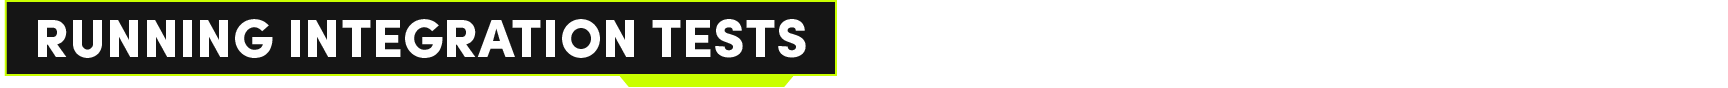
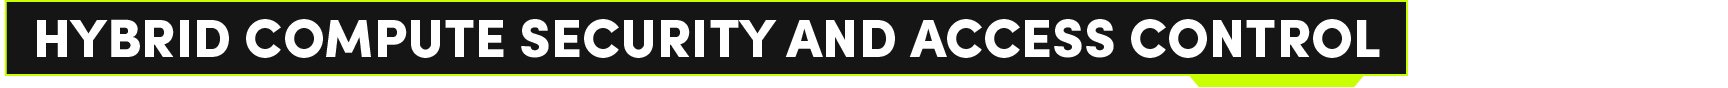
GITBOOK-209: No subject

diff --git a/boba_documentation/developer/hybrid_compute.md b/boba_documentation/developer/hybrid_compute.md
@@ -2,76 +2,90 @@
 description: How to build with Hybrid Compute
 ---
 
+# Welcome to Hybrid Compute
+
 Hybrid Compute is a system for interacting with the outside world from within solidity smart contracts. Ethereum is a computer with multiple strong constraints on its internal architecture and operations, all required for decentralization. As such, things that most developers take for granted - low cost data storage, audio and image processing, advanced math, millisecond response times, random number generation, and the ability to talk to any other computer - can be difficult or even impossible to run on the Ethereum "CPU". Of course, the benefits of decentralization far outweigh those limitations, and therefore, tools are desirable to add missing functionality to the Ethereum ecosystem. Hybrid Compute is one such tool.
 
 Hybrid Compute is a **pipe** between (**1**) Boba's Geth (aka sequencer), which takes transactions, advances the state, and forms blocks, and (**2**) your server. To use this pipe, all you need is a smart contract on Boba that makes Hybrid Compute calls and an external server that accepts these calls and returns data in a format that can be understood by the EVM. This is not hard to do and we provide many examples which will allow you to quickly build a working Hybrid Compute system.
 
-## Hybrid Compute Basic Parts
+
+
+<figure><img src="../../.gitbook/assets/Artboard 1.png" alt=""><figcaption></figcaption></figure>
 
 A typical Hybrid Compute system for gaming or Web3 social networking<>blockchain interoperability has four parts:
 
 1. A contract that uses Hybrid Compute, such as by calling `bytes memory encResponse = myHelper.TuringTx(serverURL, encRequest);`
-
 2. A second contract, the `TuringHelper`, which serves as your standardized door to Turing.
-
 3. Some BOBA. Each Hybrid Compute call costs 0.01 BOBA, equivalent to about 1 cent at the moment. This fee covers the cost of writing all input calldata and responses from your servers to Ethereum Mainnet.
-
 4. A server which accepts POST requests from Boba's Geth and returns data to it in the right format.
 
-## Hybrid Compute Functions and Feature Set
+
+
+<figure><img src="../../.gitbook/assets/Artboard 2 (2).png" alt=""><figcaption></figcaption></figure>
 
 Hybrid Compute is a general purpose pipe between computers and this pipe does not have a native feature set (e.g. storage, cron jobs, cryptographic operations, gaming engines, blockchain history lookups, ...). Rather, _it's up to you_ to deploy servers or endpoints to perform those functions and then expose the right functionality/data to external callers. For many situations, serverless endpoints such as AWS Lambda or Google Cloud Services allow you to build complex logic in just a few lines of code, so if you have not done that before, it's surprisingly easy and we provide many examples for you to use and copy.
 
-## **Hybrid Compute is not an Oracle**
+
+
+<figure><img src="../../.gitbook/assets/Artboard 3 (3).png" alt=""><figcaption></figcaption></figure>
 
 Hybrid Compute is general-purpose pipe between computers and not an Oracle. Decentralized Oracles were invented to solve a very specific problem, which is _decentralized trustless approximation of the truth_ (e.g. temperature in NYC, the price of BTC/USD, ...) for later consumption on-chain (e.g. by a DEX or lending protocol). A pipe between computers such as Hybrid Compute has no direct bearing on questions of data authenticity, timeliness, and trust, but rather, those must be tackled by the smart contract deployer and data provider(s) in whatever way is most suitable to their specific use case, industry, and application. To reiterate, Hybrid Compute is a pipe, not an Oracle.
 
-## Data Push vs. Just-in-time Data Pull
+
+
+<figure><img src="../../.gitbook/assets/Artboard 4 (3).png" alt=""><figcaption></figcaption></figure>
 
 On chain Oracles typically operate in a **push** manner, meaning that they update data on a fixed schedule (e.g. every 15 seconds), even when those data are not being used. This `push` update schedule allows calling smart contracts to have confidence that the data they pull are current, but a fixed push update cycle comes at high gas expense that does not decrease in time of low data utilization.
 
 A system like Hybrid Compute is typically configured in the opposite manner, as a **pull** system, where nothing happens until a smart contract needs data or compute. In that case, the external API services the Hybrid Compute call `just in time` during the EVM execution flow. This means that systems that use Hybrid Compute have zero baseline gas consumption and provide compute or data only when needed.
 
-## Hybrid Compute is Atomic
+
+
+<figure><img src="../../.gitbook/assets/Artboard 5.png" alt=""><figcaption></figcaption></figure>
 
 Hybrid Compute is invoked when needed during the normal EVM execution flow, and therefore, transactions are atomic. Notably, computations later in the EVM execution flow can operate on responses from your off-chain servers all in one transaction.
 
-## Transparency and Verification
+
+
+<figure><img src="../../.gitbook/assets/Artboard 6 (2).png" alt=""><figcaption></figcaption></figure>
 
 As noted, Hybrid Compute is not an Oracle. However, Hybrid Compute writes all initial calldata and server responses to Ethereum Mainnet, and therefore, external parties can see those inputs and outputs. In theory, this many allow third parties to detect fraud or even challenge Hybrid Compute calls, but such functionality remains to be developed.
 
-## Hybrid Compute Security and Access Control
+
+
+<figure><img src="../../.gitbook/assets/Artboard 7 (1).png" alt=""><figcaption></figcaption></figure>
 
 Since developers (i.e. **you**) control all of their keys and Hybrid Compute is just a pipe, there are no special security considerations when using Hybrid Compute. Notably - _we do not provide data or compute endpoints for you to query_ - you have to build, secure, and run those.
 
 Hybrid Compute has two security/control features:
 
 * First, when you set up Hybrid Compute, you register the address of your `TuringHelper` with the `TuringBilling` contract. This prevents unauthorized contracts from using your on chain infrastructure.
-
 * Second, the Boba Geth provides the address of the calling contract to your servers and endpoints. This allows you to limit use of your public data- or compute- endpoints to contracts that you have specifically approved.
 
 The first mechanism prevents unauthorized use of your on-chain resources and the second one prevents unauthorized use of off-chain resources.
 
-## Let's get started!
+
+
+<figure><img src="../../.gitbook/assets/Artboard 8.png" alt=""><figcaption></figcaption></figure>
 
 Here are five fully worked out examples for you to build on:
 
 * Use Hybrid Compute to build a [CAPTCHA-gated token faucet](../hc/hc-captcha-faucet.md)
 * Use Hybrid Compute to [mint NFTs with random attributives](../hc/monsters.md)
-* Do all [stableswap quadratic math off-chain, just in time](https://github.com/bobanetwork/boba/tree/develop/boba_examples/turing-lending)
-* Query [centralized off-chain price feeds](./price-feeds.md#3-bobalink)
+* Do all [stableswap quadratic math off-chain, just in time](https://github.com/bobanetwork/boba/tree/develop/boba\_examples/turing-lending)
+* Query [centralized off-chain price feeds](price-feeds.md#3-bobalink)
 * Connect [on-chain events with commercial KYC providers](../hc/kyc.md)
 
 There is more information on setting up your own servers and compute endpoints here:
 
-* [Hybrid Compute API Endpoints](../hc/AWS_lambda_setup.md)
+* [Hybrid Compute API Endpoints](../hc/AWS\_lambda\_setup.md)
 
-Separately, there is a new system to help you deploy all the right contracts and set up a working test system at [[Mainnet: turing.boba.network]](https://turing.boba.network).
+Separately, there is a new system to help you deploy all the right contracts and set up a working test system at [\[Mainnet: turing.boba.network\]](https://turing.boba.network).
 
-Have fun using hybrid_compute and contact us right away if you run into any problems!
+Have fun using hybrid\_compute and contact us right away if you run into any problems!
 
 [Telegram for Developers](https://t.me/bobadev)\
-[Project Telegram](https://t.me/bobanetwork )\
+[Project Telegram](https://t.me/bobanetwork)\
 [Discord](https://discord.com/invite/YFweUKCb8a)
 
 There is a community-built factory contract for Hybrid Compute helper. You can deploy, manage, and fund your Hybrid Compute helpers all through a graphical interface.

diff --git a/README.md b/README.md
@@ -25,7 +25,7 @@ User focused documentation is available [on the Boba docs website](http://docs.b
 [Project Telegram](https://t.me/bobanetwork)\
 [Discord](https://discord.com/invite/YFweUKCb8a)
 
-<figure><img src=".gitbook/assets/Artboard 2 (1).png" alt=""><figcaption></figcaption></figure>
+<figure><img src=".gitbook/assets/Artboard 2.png" alt=""><figcaption></figcaption></figure>
 
 **Base Layer (generally similar to Optimistic Ethereum)**
 
@@ -106,13 +106,13 @@ If the command returns with no log output, the sequencer is up. Once the sequenc
 
 When the command returns with `Pass: Found L2 Liquidity Pool contract address`, the entire Boba stack has come up correctly.
 
-<figure><img src=".gitbook/assets/Artboard 5.png" alt=""><figcaption></figcaption></figure>
+<figure><img src=".gitbook/assets/Artboard 5 (1).png" alt=""><figcaption></figcaption></figure>
 
 * _Running out of space on your Docker, or having other having hard to debug issues_? Try running `docker system prune -a --volumes` and then rebuild the images.
 * _To (re)build individual base services_: `docker-compose build -- l2geth`
 * _To (re)build individual Boba ts services_: `docker-compose build -- builder` then `docker-compose build -- dtl`, for example
 
-<figure><img src=".gitbook/assets/Artboard 6.png" alt=""><figcaption></figcaption></figure>
+<figure><img src=".gitbook/assets/Artboard 6 (3).png" alt=""><figcaption></figcaption></figure>
 
 To run unit tests for a specific package:
 
@@ -121,7 +121,7 @@ cd packages/package-to-test
 yarn test
 ```
 
-<figure><img src=".gitbook/assets/Artboard 7 (1).png" alt=""><figcaption></figcaption></figure>
+<figure><img src=".gitbook/assets/Artboard 7.png" alt=""><figcaption></figcaption></figure>
 
 Make sure you are in the `ops` folder and then run
 
@@ -131,7 +131,7 @@ docker-compose run integration_tests
 
 Expect the full test suite with more than 110 tests including load tests to complete in between _30 minutes_ to _two hours_ depending on your computer hardware.
 
-<figure><img src=".gitbook/assets/Artboard 8.png" alt=""><figcaption></figcaption></figure>
+<figure><img src=".gitbook/assets/Artboard 8 (2).png" alt=""><figcaption></figcaption></figure>
 
 By default, the `docker-compose up` command will show logs from all services, and that can be hard to filter through. In order to view the logs from a specific service, you can run:
 

diff --git a/boba_documentation/user/001_how-to-bridge.md b/boba_documentation/user/001_how-to-bridge.md
@@ -6,11 +6,11 @@ description: Setup a wallet, buy & transfer cryptocurrencies, use the different 
 
 [https://gateway.boba.network/](https://gateway.boba.network)
 
-<figure><img src="../../.gitbook/assets/Artboard 1.png" alt=""><figcaption></figcaption></figure>
+<figure><img src="../../.gitbook/assets/Artboard 1 (2).png" alt=""><figcaption></figcaption></figure>
 
 {% embed url="https://drive.google.com/file/d/1ybrKdXxlRNrZOkPO4fLc9bWQ56gRZXfQ/view?usp=sharing" %}
 
-<figure><img src="../../.gitbook/assets/Artboard 2.png" alt=""><figcaption></figcaption></figure>
+<figure><img src="../../.gitbook/assets/Artboard 2 (1).png" alt=""><figcaption></figcaption></figure>
 
 {% embed url="https://drive.google.com/file/d/1TxuP6myVAhtPsEQ0wfmS2HdI0E9rjT3b/view" %}
 
@@ -32,11 +32,11 @@ description: Setup a wallet, buy & transfer cryptocurrencies, use the different 
 
 {% embed url="https://drive.google.com/file/d/1TSyk7T_-TqhXywcbeO41dJZgCsrPIzGq/view?usp=share_link" %}
 
-<figure><img src="../../.gitbook/assets/Artboard 6 (1).png" alt=""><figcaption></figcaption></figure>
+<figure><img src="../../.gitbook/assets/Artboard 6.png" alt=""><figcaption></figcaption></figure>
 
 {% embed url="https://drive.google.com/file/d/1HeHlr9FsBAQwW5YE0ho8g_GygRWWI9jU/view?usp=share_link" %}
 
-<figure><img src="../../.gitbook/assets/Artboard 7.png" alt=""><figcaption></figcaption></figure>
+<figure><img src="../../.gitbook/assets/Artboard 7 (2).png" alt=""><figcaption></figcaption></figure>
 
 {% embed url="https://drive.google.com/file/d/1KxHc3ymjErviLBV1bASzzHs8xsLMIDcd/view?usp=share_link" %}
 

diff --git a/faq.md b/faq.md
@@ -193,7 +193,7 @@ Please be sure to attach logs of output of `docker-compose logs` and integration
 
 We have the graph node on Ethereum Mainnet L2 and Rinkeby L2. The Rinkeby graph node is public. The Mainnet graph node is hosted by The Graph team.
 
-<figure><img src=".gitbook/assets/Artboard 5 (1).png" alt=""><figcaption></figcaption></figure>
+<figure><img src=".gitbook/assets/Artboard 5 (1) (1).png" alt=""><figcaption></figcaption></figure>
 
 #### Q1: Why Isn’t My Transaction Going Through?
 
@@ -248,7 +248,7 @@ Actually, there are multiple bridges available. You can check it out on our ecos
 
 [Simply follow this link](https://gateway.boba.network/) and navigate to the Ecosystem tab.
 
-<figure><img src=".gitbook/assets/Artboard 6 (1) (1).png" alt=""><figcaption></figcaption></figure>
+<figure><img src=".gitbook/assets/Artboard 6 (1).png" alt=""><figcaption></figcaption></figure>
 
 #### Q1: What Are the Limits on Hybrid Compute Web2 Calls?
 

diff --git a/boba_documentation/user/003_nfts.md b/boba_documentation/user/003_nfts.md
@@ -4,6 +4,6 @@ description: Learn how to import your L2 NFTs to your Boba Gateway Wallet
 
 # NFTs
 
-## Adding L2 native NFTs to your wallet
+<figure><img src="../../.gitbook/assets/Artboard-9.png" alt=""><figcaption></figcaption></figure>
 
 On the [Gateway](https://gateway.boba.network) click on Wallet>NFT and paste in the smart contract address of your NFT as well as the TokenID. Once you have provided the correct values and clicked `Add NFT`, the wallet will find and show your NFT. If it's a Turing Monster, you can autoadd it by clicking `Fetch My Monsters`.
